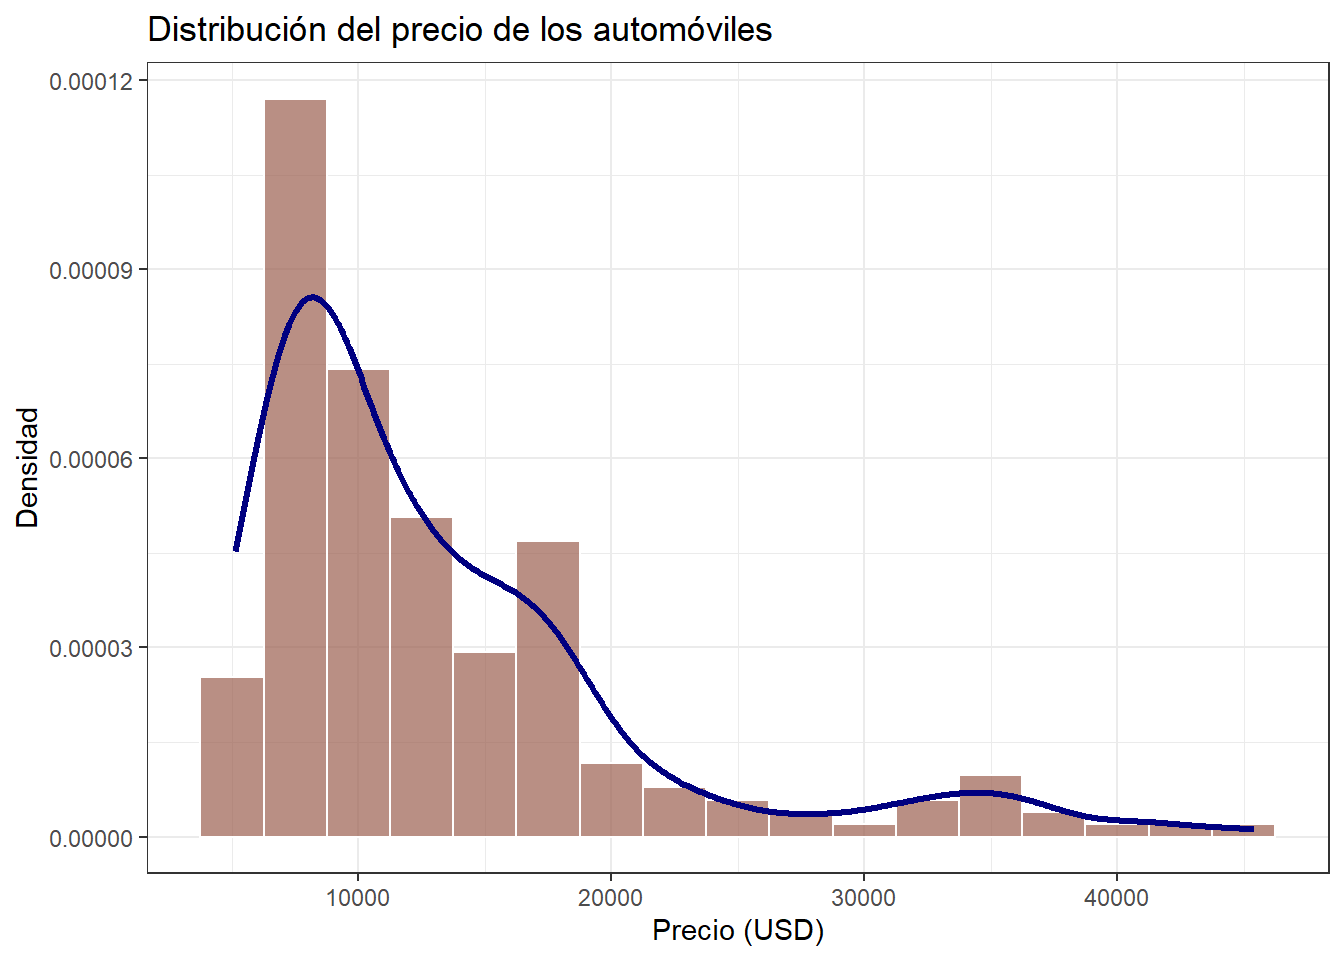
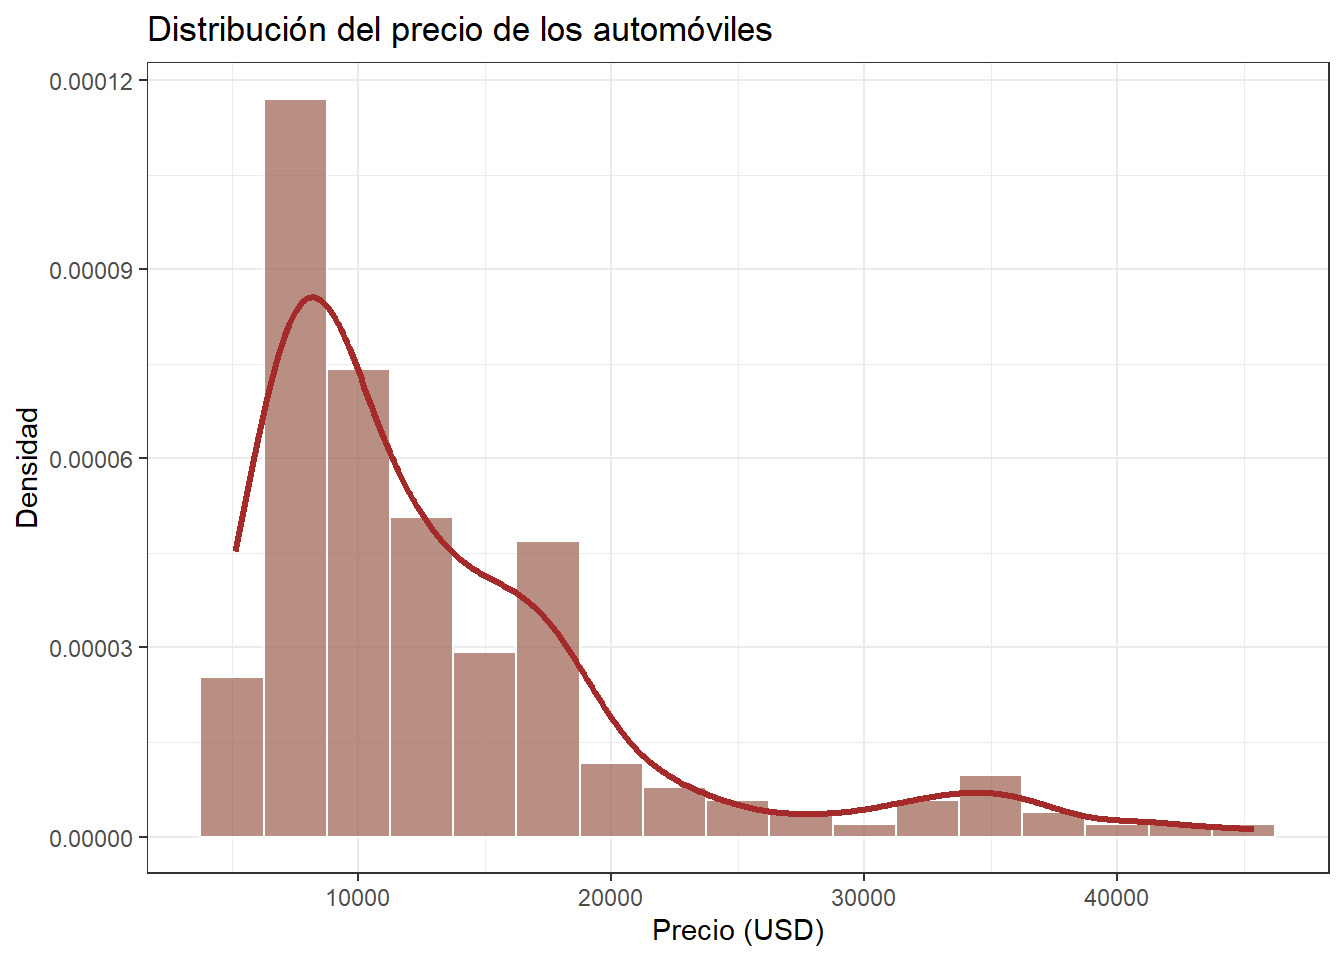
01-intro colores tablas commit 1

diff --git a/docs/intro.html b/docs/intro.html
@@ -294,7 +294,7 @@ code span.wa { color: #60a0b0; font-weight: bold; font-style: italic; } /* Warni
 ##   ..   X25 = col_double(),
 ##   ..   X26 = col_character()
 ##   .. )
-##  - attr(*, &quot;problems&quot;)=&lt;pointer: 0x0000025b712f7cf0&gt;</code></pre>
+##  - attr(*, &quot;problems&quot;)=&lt;pointer: 0x000002a7a25e5e20&gt;</code></pre>
 <p>Veamos si hay datos faltantes</p>
 <div class="sourceCode" id="cb9"><pre class="sourceCode r"><code class="sourceCode r"><span id="cb9-1"><a href="#cb9-1" tabindex="-1"></a>colSums</span></code></pre></div>
 <pre><code>## function (x, na.rm = FALSE, dims = 1L) 
@@ -316,7 +316,7 @@ code span.wa { color: #60a0b0; font-weight: bold; font-style: italic; } /* Warni
 ##     else names(z) &lt;- dimnames(x)[[dims + 1L]]
 ##     z
 ## }
-## &lt;bytecode: 0x0000025b73238270&gt;
+## &lt;bytecode: 0x000002a7a61b3620&gt;
 ## &lt;environment: namespace:base&gt;</code></pre>
 <div class="sourceCode" id="cb11"><pre class="sourceCode r"><code class="sourceCode r"><span id="cb11-1"><a href="#cb11-1" tabindex="-1"></a>Automobile[Automobile <span class="sc">==</span> <span class="st">&quot;?&quot;</span>] <span class="ot">&lt;-</span> <span class="cn">NA</span></span>
 <span id="cb11-2"><a href="#cb11-2" tabindex="-1"></a></span>
@@ -380,13 +380,12 @@ code span.wa { color: #60a0b0; font-weight: bold; font-style: italic; } /* Warni
 </tbody>
 </table>
 <div class="sourceCode" id="cb19"><pre class="sourceCode r"><code class="sourceCode r"><span id="cb19-1"><a href="#cb19-1" tabindex="-1"></a>df <span class="sc">%&gt;%</span></span>
-<span id="cb19-2"><a href="#cb19-2" tabindex="-1"></a>  <span class="fu">ggplot</span>(<span class="fu">aes</span>(<span class="at">x =</span> <span class="st">`</span><span class="at">fuel-type</span><span class="st">`</span>, <span class="at">y =</span> price, <span class="at">fill =</span> <span class="st">`</span><span class="at">fuel-type</span><span class="st">`</span>)) <span class="sc">+</span></span>
-<span id="cb19-3"><a href="#cb19-3" tabindex="-1"></a>  <span class="fu">geom_boxplot</span>(<span class="at">alpha =</span> <span class="fl">0.7</span>) <span class="sc">+</span></span>
+<span id="cb19-2"><a href="#cb19-2" tabindex="-1"></a>  <span class="fu">ggplot</span>(<span class="fu">aes</span>(<span class="at">x =</span> <span class="st">`</span><span class="at">fuel-type</span><span class="st">`</span>, <span class="at">y =</span> price)) <span class="sc">+</span></span>
+<span id="cb19-3"><a href="#cb19-3" tabindex="-1"></a>  <span class="fu">geom_boxplot</span>(<span class="at">fill =</span> <span class="st">&quot;#9b5e4f&quot;</span>, <span class="at">alpha =</span> <span class="fl">0.7</span>) <span class="sc">+</span></span>
 <span id="cb19-4"><a href="#cb19-4" tabindex="-1"></a>  <span class="fu">labs</span>(<span class="at">title =</span> <span class="st">&#39;Distribución del precio según el tipo de combustible&#39;</span>,</span>
 <span id="cb19-5"><a href="#cb19-5" tabindex="-1"></a>       <span class="at">x =</span> <span class="st">&#39;Tipo de Combustible&#39;</span>,</span>
 <span id="cb19-6"><a href="#cb19-6" tabindex="-1"></a>       <span class="at">y =</span> <span class="st">&#39;Precio del auto (USD)&#39;</span>) <span class="sc">+</span></span>
-<span id="cb19-7"><a href="#cb19-7" tabindex="-1"></a>  <span class="fu">theme_bw</span>() <span class="sc">+</span></span>
-<span id="cb19-8"><a href="#cb19-8" tabindex="-1"></a>  <span class="fu">theme</span>(<span class="at">legend.position =</span> <span class="st">&quot;none&quot;</span>) <span class="co"># Ocultamos la leyenda porque el eje X ya lo indica</span></span></code></pre></div>
+<span id="cb19-7"><a href="#cb19-7" tabindex="-1"></a>  <span class="fu">theme_bw</span>()</span></code></pre></div>
 </div>
 <div id="section" class="section level2 hasAnchor" number="1.2">
 <h2><span class="header-section-number">1.2</span> <img src="bookdown-demo_files/figure-html/histprice-1.png" alt="" width="672" /><a href="#section" class="anchor-section" aria-label="Anchor link to header"></a></h2>
@@ -400,7 +399,7 @@ code span.wa { color: #60a0b0; font-weight: bold; font-style: italic; } /* Warni
 <span id="cb20-5"><a href="#cb20-5" tabindex="-1"></a>                 <span class="at">fill =</span> <span class="st">&quot;#9b5e4f&quot;</span>,</span>
 <span id="cb20-6"><a href="#cb20-6" tabindex="-1"></a>                 <span class="at">color =</span> <span class="st">&quot;white&quot;</span>,</span>
 <span id="cb20-7"><a href="#cb20-7" tabindex="-1"></a>                 <span class="at">alpha =</span> <span class="fl">0.7</span>)<span class="sc">+</span></span>
-<span id="cb20-8"><a href="#cb20-8" tabindex="-1"></a>  <span class="fu">geom_density</span>(<span class="at">color=</span><span class="st">&quot;navy&quot;</span>, <span class="at">linewidth =</span> <span class="fl">1.2</span>)<span class="sc">+</span></span>
+<span id="cb20-8"><a href="#cb20-8" tabindex="-1"></a>  <span class="fu">geom_density</span>(<span class="at">color=</span><span class="st">&quot;brown&quot;</span>, <span class="at">linewidth =</span> <span class="fl">1.2</span>)<span class="sc">+</span></span>
 <span id="cb20-9"><a href="#cb20-9" tabindex="-1"></a>  <span class="fu">labs</span>(<span class="at">title=</span> <span class="st">&#39;Distribución del precio de los automóviles&#39;</span>,</span>
 <span id="cb20-10"><a href="#cb20-10" tabindex="-1"></a>       <span class="at">x=</span><span class="st">&#39;Precio (USD)&#39;</span>,</span>
 <span id="cb20-11"><a href="#cb20-11" tabindex="-1"></a>       <span class="at">y =</span><span class="st">&#39;Densidad&#39;</span>)<span class="sc">+</span></span>
@@ -413,10 +412,10 @@ code span.wa { color: #60a0b0; font-weight: bold; font-style: italic; } /* Warni
 <h2><span class="header-section-number">1.5</span> INTERPRETACION DE ESA TABLA <sup></sup>^<a href="#interpretacion-de-esa-tabla-1" class="anchor-section" aria-label="Anchor link to header"></a></h2>
 <div class="sourceCode" id="cb21"><pre class="sourceCode r"><code class="sourceCode r"><span id="cb21-1"><a href="#cb21-1" tabindex="-1"></a>df <span class="sc">%&gt;%</span></span>
 <span id="cb21-2"><a href="#cb21-2" tabindex="-1"></a>  <span class="fu">ggplot</span>(<span class="fu">aes</span>(<span class="at">y=</span> <span class="st">&quot;&quot;</span>, <span class="at">x=</span>price))<span class="sc">+</span></span>
-<span id="cb21-3"><a href="#cb21-3" tabindex="-1"></a>  <span class="fu">geom_boxplot</span>(<span class="at">fill =</span> <span class="st">&quot;#9b5e4f&quot;</span>,<span class="at">color =</span> <span class="st">&quot;#9b324f&quot;</span>,</span>
+<span id="cb21-3"><a href="#cb21-3" tabindex="-1"></a>  <span class="fu">geom_boxplot</span>(<span class="at">fill =</span> <span class="st">&quot;#9b5e4f&quot;</span>,<span class="at">color =</span> <span class="st">&quot;brown&quot;</span>,</span>
 <span id="cb21-4"><a href="#cb21-4" tabindex="-1"></a>               <span class="at">outlier.color =</span> <span class="st">&#39;#e74c3c&#39;</span>)<span class="sc">+</span></span>
 <span id="cb21-5"><a href="#cb21-5" tabindex="-1"></a>  <span class="fu">stat_summary</span>(<span class="at">fun=</span> mean, <span class="at">geom=</span><span class="st">&#39;point&#39;</span>, <span class="at">shape=</span><span class="dv">20</span>,</span>
-<span id="cb21-6"><a href="#cb21-6" tabindex="-1"></a>               <span class="at">size=</span><span class="dv">4</span>, <span class="at">color=</span><span class="st">&#39;navy&#39;</span>) <span class="sc">+</span></span>
+<span id="cb21-6"><a href="#cb21-6" tabindex="-1"></a>               <span class="at">size=</span><span class="dv">4</span>, <span class="at">color=</span><span class="st">&#39;darkred&#39;</span>) <span class="sc">+</span></span>
 <span id="cb21-7"><a href="#cb21-7" tabindex="-1"></a>  <span class="fu">labs</span>(<span class="at">title =</span> <span class="st">&quot;Dispersión y valores atípicos del precio&quot;</span>, <span class="at">x =</span> <span class="st">&quot;Precio&quot;</span>, <span class="at">y =</span> <span class="st">&quot;&quot;</span>) <span class="sc">+</span></span>
 <span id="cb21-8"><a href="#cb21-8" tabindex="-1"></a>  <span class="fu">theme_bw</span>()</span></code></pre></div>
 </div>
@@ -460,22 +459,22 @@ code span.wa { color: #60a0b0; font-weight: bold; font-style: italic; } /* Warni
 <div class="sourceCode" id="cb24"><pre class="sourceCode r"><code class="sourceCode r"><span id="cb24-1"><a href="#cb24-1" tabindex="-1"></a><span class="co"># Usamos patchwork para unir los gráficos</span></span>
 <span id="cb24-2"><a href="#cb24-2" tabindex="-1"></a>p1 <span class="ot">&lt;-</span> df <span class="sc">%&gt;%</span></span>
 <span id="cb24-3"><a href="#cb24-3" tabindex="-1"></a>    <span class="fu">ggplot</span>(<span class="fu">aes</span>(<span class="at">y=</span> <span class="st">&quot;&quot;</span>, <span class="at">x=</span><span class="st">`</span><span class="at">engine-size</span><span class="st">`</span>))<span class="sc">+</span></span>
-<span id="cb24-4"><a href="#cb24-4" tabindex="-1"></a>  <span class="fu">geom_boxplot</span>(<span class="at">fill =</span> <span class="st">&quot;#e67e22&quot;</span>,<span class="at">color =</span> <span class="st">&quot;darkred&quot;</span>, <span class="at">outlier.color =</span> <span class="st">&#39;black&#39;</span>)<span class="sc">+</span></span>
+<span id="cb24-4"><a href="#cb24-4" tabindex="-1"></a>  <span class="fu">geom_boxplot</span>(<span class="at">fill =</span> <span class="st">&quot;#9b5e4f&quot;</span>,<span class="at">color =</span> <span class="st">&quot;brown&quot;</span>, <span class="at">outlier.color =</span> <span class="st">&#39;#2980b9&#39;</span>)<span class="sc">+</span></span>
 <span id="cb24-5"><a href="#cb24-5" tabindex="-1"></a>  <span class="fu">labs</span>(<span class="at">title =</span> <span class="st">&quot;Tamaño del Motor&quot;</span>, <span class="at">y =</span> <span class="st">&quot;&quot;</span>, <span class="at">x =</span> <span class="st">&quot;Cilindrada&quot;</span>) <span class="sc">+</span> <span class="fu">theme_bw</span>()</span>
 <span id="cb24-6"><a href="#cb24-6" tabindex="-1"></a></span>
 <span id="cb24-7"><a href="#cb24-7" tabindex="-1"></a>p2 <span class="ot">&lt;-</span> df <span class="sc">%&gt;%</span></span>
 <span id="cb24-8"><a href="#cb24-8" tabindex="-1"></a>    <span class="fu">ggplot</span>(<span class="fu">aes</span>(<span class="at">y=</span> <span class="st">&quot;&quot;</span>, <span class="at">x=</span>horsepower))<span class="sc">+</span></span>
-<span id="cb24-9"><a href="#cb24-9" tabindex="-1"></a>  <span class="fu">geom_boxplot</span>(<span class="at">fill =</span> <span class="st">&quot;#e67e22&quot;</span>,<span class="at">color =</span> <span class="st">&quot;darkred&quot;</span>, <span class="at">outlier.color =</span> <span class="st">&#39;black&#39;</span>)<span class="sc">+</span></span>
+<span id="cb24-9"><a href="#cb24-9" tabindex="-1"></a>  <span class="fu">geom_boxplot</span>(<span class="at">fill =</span> <span class="st">&quot;#9b5e4f&quot;</span>,<span class="at">color =</span> <span class="st">&quot;brown&quot;</span>, <span class="at">outlier.color =</span> <span class="st">&#39;#2980b9&#39;</span>)<span class="sc">+</span></span>
 <span id="cb24-10"><a href="#cb24-10" tabindex="-1"></a>  <span class="fu">labs</span>(<span class="at">title =</span> <span class="st">&quot;Caballos de Fuerza&quot;</span>, <span class="at">y =</span> <span class="st">&quot;&quot;</span>, <span class="at">x =</span> <span class="st">&quot;HP&quot;</span>) <span class="sc">+</span> <span class="fu">theme_bw</span>()</span>
 <span id="cb24-11"><a href="#cb24-11" tabindex="-1"></a></span>
 <span id="cb24-12"><a href="#cb24-12" tabindex="-1"></a>p3 <span class="ot">&lt;-</span> df <span class="sc">%&gt;%</span></span>
 <span id="cb24-13"><a href="#cb24-13" tabindex="-1"></a>    <span class="fu">ggplot</span>(<span class="fu">aes</span>(<span class="at">y=</span> <span class="st">&quot;&quot;</span>, <span class="at">x=</span><span class="st">`</span><span class="at">city-mpg</span><span class="st">`</span>))<span class="sc">+</span></span>
-<span id="cb24-14"><a href="#cb24-14" tabindex="-1"></a>  <span class="fu">geom_boxplot</span>(<span class="at">fill =</span> <span class="st">&quot;#e67e22&quot;</span>,<span class="at">color =</span> <span class="st">&quot;darkred&quot;</span>, <span class="at">outlier.color =</span> <span class="st">&#39;black&#39;</span>)<span class="sc">+</span></span>
+<span id="cb24-14"><a href="#cb24-14" tabindex="-1"></a>  <span class="fu">geom_boxplot</span>(<span class="at">fill =</span> <span class="st">&quot;#9b5e4f&quot;</span>,<span class="at">color =</span> <span class="st">&quot;brown&quot;</span>, <span class="at">outlier.color =</span> <span class="st">&#39;#2980b9&#39;</span>)<span class="sc">+</span></span>
 <span id="cb24-15"><a href="#cb24-15" tabindex="-1"></a>  <span class="fu">labs</span>(<span class="at">title =</span> <span class="st">&quot;Rendimiento en Ciudad&quot;</span>, <span class="at">y =</span> <span class="st">&quot;&quot;</span>, <span class="at">x =</span> <span class="st">&quot;Millas por Galón&quot;</span>) <span class="sc">+</span> <span class="fu">theme_bw</span>()</span>
 <span id="cb24-16"><a href="#cb24-16" tabindex="-1"></a></span>
 <span id="cb24-17"><a href="#cb24-17" tabindex="-1"></a>p4 <span class="ot">&lt;-</span> df <span class="sc">%&gt;%</span></span>
 <span id="cb24-18"><a href="#cb24-18" tabindex="-1"></a>    <span class="fu">ggplot</span>(<span class="fu">aes</span>(<span class="at">y=</span> <span class="st">&quot;&quot;</span>, <span class="at">x=</span><span class="st">`</span><span class="at">curb-weight</span><span class="st">`</span>))<span class="sc">+</span></span>
-<span id="cb24-19"><a href="#cb24-19" tabindex="-1"></a>  <span class="fu">geom_boxplot</span>(<span class="at">fill =</span> <span class="st">&quot;#e67e22&quot;</span>,<span class="at">color =</span> <span class="st">&quot;darkred&quot;</span>, <span class="at">outlier.color =</span> <span class="st">&#39;black&#39;</span>)<span class="sc">+</span></span>
+<span id="cb24-19"><a href="#cb24-19" tabindex="-1"></a>  <span class="fu">geom_boxplot</span>(<span class="at">fill =</span> <span class="st">&quot;#9b5e4f&quot;</span>,<span class="at">color =</span> <span class="st">&quot;brown&quot;</span>, <span class="at">outlier.color =</span> <span class="st">&#39;#2980b9&#39;</span>)<span class="sc">+</span></span>
 <span id="cb24-20"><a href="#cb24-20" tabindex="-1"></a>  <span class="fu">labs</span>(<span class="at">title =</span> <span class="st">&quot;Peso del Vehículo&quot;</span>, <span class="at">y =</span> <span class="st">&quot;&quot;</span>, <span class="at">x =</span> <span class="st">&quot;Libras&quot;</span>) <span class="sc">+</span> <span class="fu">theme_bw</span>()</span>
 <span id="cb24-21"><a href="#cb24-21" tabindex="-1"></a></span>
 <span id="cb24-22"><a href="#cb24-22" tabindex="-1"></a>p1 <span class="sc">+</span> p2 <span class="sc">+</span> p3 <span class="sc">+</span> p4</span></code></pre></div>
@@ -528,7 +527,7 @@ code span.wa { color: #60a0b0; font-weight: bold; font-style: italic; } /* Warni
 <div class="sourceCode" id="cb28"><pre class="sourceCode r"><code class="sourceCode r"><span id="cb28-1"><a href="#cb28-1" tabindex="-1"></a><span class="co"># Relación entre estilo de carrocería y precio</span></span>
 <span id="cb28-2"><a href="#cb28-2" tabindex="-1"></a>df <span class="sc">%&gt;%</span></span>
 <span id="cb28-3"><a href="#cb28-3" tabindex="-1"></a>  <span class="fu">ggplot</span>(<span class="fu">aes</span>(<span class="at">x =</span> <span class="st">`</span><span class="at">body-style</span><span class="st">`</span>, <span class="at">y =</span> price)) <span class="sc">+</span></span>
-<span id="cb28-4"><a href="#cb28-4" tabindex="-1"></a>  <span class="fu">geom_boxplot</span>(<span class="at">fill =</span> <span class="st">&quot;#9b5e4f&quot;</span>, <span class="at">color =</span> <span class="st">&quot;black&quot;</span>, <span class="at">outlier.color =</span> <span class="st">&#39;red&#39;</span>, <span class="at">alpha =</span> <span class="fl">0.8</span>) <span class="sc">+</span></span>
+<span id="cb28-4"><a href="#cb28-4" tabindex="-1"></a>  <span class="fu">geom_boxplot</span>(<span class="at">fill =</span> <span class="st">&quot;#9b5e4f&quot;</span>, <span class="at">color =</span> <span class="st">&quot;brown&quot;</span>, <span class="at">outlier.color =</span> <span class="st">&#39;#2980b9&#39;</span>, <span class="at">alpha =</span> <span class="fl">0.8</span>) <span class="sc">+</span></span>
 <span id="cb28-5"><a href="#cb28-5" tabindex="-1"></a>  <span class="fu">labs</span>(<span class="at">title =</span> <span class="st">&quot;Distribución del Precio según la Carrocería&quot;</span>, <span class="at">x =</span> <span class="st">&quot;Estilo&quot;</span>, <span class="at">y =</span> <span class="st">&quot;Precio (USD)&quot;</span>) <span class="sc">+</span></span>
 <span id="cb28-6"><a href="#cb28-6" tabindex="-1"></a>  <span class="fu">theme_bw</span>()</span></code></pre></div>
 </div>
